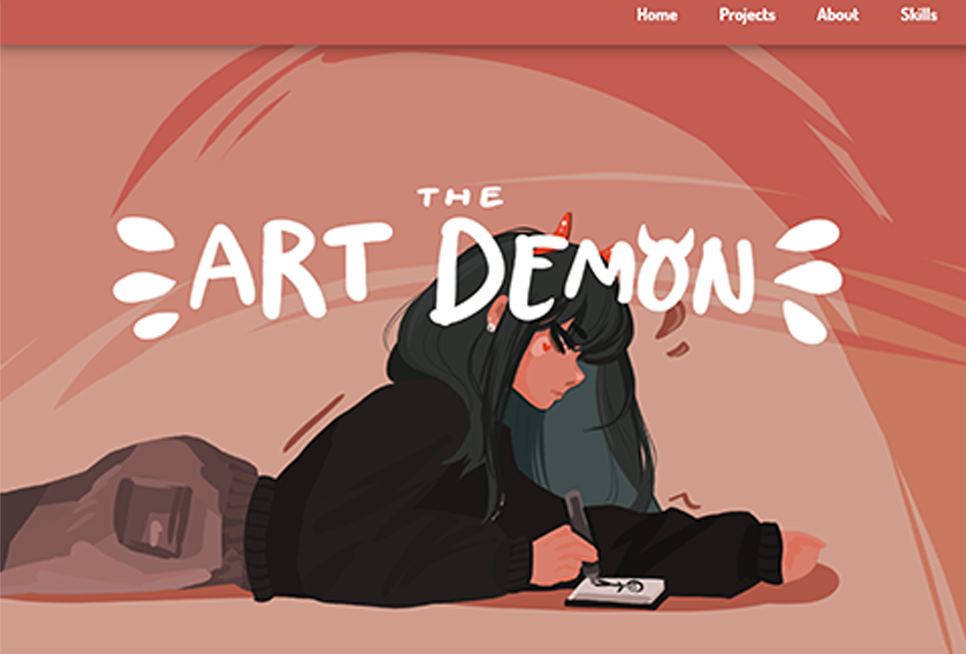
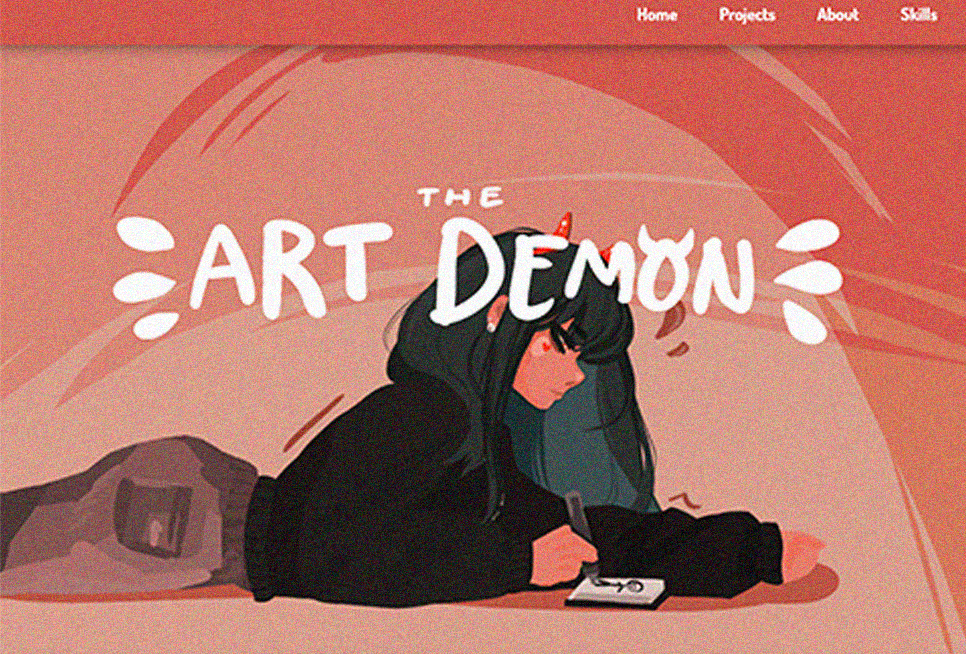
checked

diff --git a/app/page.js b/app/page.js
@@ -1,6 +1,7 @@
 'use client';
 import React from 'react';
-import Image from "next/image";
+import Image from "next/legacy/image";
+import Link from "next/link"
 
 export default function Home() {
   const getRandomHeight = (min, max) => Math.floor(Math.random() * (max - min + 1)) + min;
@@ -11,21 +12,25 @@ export default function Home() {
       title: 'SLEEPWALKER',
       subtitle: '2D Platformer made using Unity Engine & URP',
       image: '/images/sleepwalker.png',
+      link: 'https://github.com/saboiii/SLEEPWALKER',
     },
     {
       title: 'IMMUNE',
       subtitle: 'Top-down 2D Battle Strategy game made using Unity',
       image: '/images/immune.png',
-    },
-    {
-      title: 'PORTFOLIO',
-      subtitle: 'Example portfolio website created using TailwindCSS & React',
-      image: '/images/artdemon.png',
+      link: 'https://github.com/saboiii/IMMUNE-V1.1-Code',
     },
     {
       title: 'CHERISH SG Website',
       subtitle: 'Next.js, React, TailwindCSS full-stack blog web app for social campaign',
       image: '/images/cherish.png',
+      link: 'https://cherish.netlify.app',
+    },
+    {
+      title: 'PORTFOLIO',
+      subtitle: 'Example portfolio website created using TailwindCSS & React',
+      image: '/images/artdemon.png',
+      link: 'https://github.com/saboiii/Artdemon-MyTestPortfolio',
     },
   ];
 
@@ -39,45 +44,55 @@ export default function Home() {
       <div className="flex h-screen w-screen">
 
         <div className="flex flex-col justify-center w-full items-center md:items-start md:px-[15%]">
-          <p className="ml-2 font-josefinsans text-md text-rose-100/50 mb-1">SABA | AZAD | 17 | GIIS</p>
+          <p className="ml-2 font-josefinsans text-md text-rose-100 mb-1">SABA | AZAD | 17 | GIIS</p>
           <div className="line w-48 ml-2 border-t border-white my-2"></div>
           <h1 className="mb-2 z-10">PORTFOLIO</h1>
           <h2 className="ml-1">In production.</h2>
 
-          <div className="blob z-0 absolute rounded-[999px] blur-3xl md:w-[750px] w-[500px] h-[500px] md:h-[750px] bg-gradient-to-l from-blue-500/5 via-orange-200/5 to-rose-300/5" />
-          <div className="blob z-0 absolute top-0 left-0 rounded-[999px] blur-3xl w-[300px] h-[300px] md:w-[500px] md:h-[500px] bg-gradient-to-l from-orange-200/5 to-rose-400/5" />
-          <div className="blob z-0 absolute rounded-[999px] blur-3xl w-[200px] h-[200px] md:w-[500px] md:h-[500px] bg-gradient-to-l from-orange-500/10 md:from-purple-500/5 to-rose-400/5" />
+          <div className="blob z-0 absolute rounded-[999px] blur-3xl md:w-[750px] w-[500px] h-[500px] md:h-[750px] bg-gradient-to-l from-blue-500/5 via-purple-200/5 to-rose-300/5" />
+          <div className="blob z-0 absolute top-0 left-0 rounded-[999px] blur-3xl w-[300px] h-[300px] md:w-[500px] md:h-[500px] bg-gradient-to-l from-pink-200/5 to-rose-400/5" />
+          <div className="blob z-0 absolute rounded-[999px] blur-3xl w-[200px] h-[200px] md:w-[500px] md:h-[500px] bg-gradient-to-l from-pink-500/10 md:from-purple-500/5 to-rose-400/5" />
           <div className="blob z-0 absolute bottom-0 right-0 rounded-[999px] blur-3xl w-[250px] h-[250px] md:w-[500px] md:h-[500px] bg-gradient-to-l from-rose-500/5 to-blue-950/5 md:to-purple-400/5" />
         </div>
 
       </div>
 
-      <div className="w-screen grid grid-cols-1 md:grid-cols-3 gap-4 p-24">
-        {groupedProjects.map((columnProjects, columnIndex) => (
-          <div key={columnIndex} className="flex flex-col gap-4">
-            {columnProjects.map((project, index) => (
-              <div
-                key={index}
-                className="relative overflow-hidden"
-                style={{ height: `${getRandomHeight(250, 400)}px` }}
-              >
-                <div className="relative overflow-hidden w-full h-full">
-                  <Image
-                    src={project.image}
-                    alt={project.title}
-                    layout="fill"
-                    objectFit="cover"
-                  />
+      <div>
+      <div className="flex justify-center items-center mb-12">
+          <div className="w-[25%] h-px bg-rose-100 mx-4 mb-2"></div>
+          <h2 className="text-3xl">Projects</h2>
+          <div className="w-[25%] h-px bg-rose-100 mx-4 mb-2"></div>
+        </div>
+        <div className="h-full w-screen grid grid-cols-1 md:grid-cols-3 gap-4 pb-24 px-24">
+          {groupedProjects.map((columnProjects, columnIndex) => (
+            <div key={columnIndex} className="flex flex-col gap-4">
+              {columnProjects.map((project, index) => (
+                <div
+                  key={index}
+                  className="relative overflow-hidden"
+                  style={{ height: `${getRandomHeight(250, 350)}px` }}
+                >
+                  <div className="relative overflow-hidden w-full h-full opacity-70">
+                    <Image
+                      src={project.image}
+                      alt={project.title}
+                      layout='fill'
+                      objectFit='cover'
+                    />
+                  </div>
+
+                  <Link href={project.link} className="overlay absolute top-0 left-0 w-full h-full flex flex-col justify-center items-center bg-black/70 text-white text-center opacity-0 transition-opacity duration-300 hover:opacity-100">
+                    <h3 className="text-xl font-averiabold">{project.title}</h3>
+                    <p className="text-sm font-pridimed px-12">{project.subtitle}</p>
+                  </Link>
+
                 </div>
-                <div className="overlay absolute top-0 left-0 w-full h-full flex flex-col justify-center items-center bg-black/70 text-white text-center opacity-0 transition-opacity duration-300 hover:opacity-100">
-                  <h3 className="text-xl font-averiabold">{project.title}</h3>
-                  <p className="text-sm font-pridimed">{project.subtitle}</p>
-                </div>
-              </div>
-            ))}
-          </div>
-        ))}
+              ))}
+            </div>
+          ))}
+        </div>
       </div>
+
     </div>
 
 

diff --git a/components/navbar/Navbar.jsx b/components/navbar/Navbar.jsx
@@ -6,10 +6,10 @@ const Navbar = () => {
     <div className='fixed w-full h-20 z-10'>
         <div className='flex justify-end w-full h-full'>
             <ul className='flex items-center px-8'>
-                <Link href=''><li className='mx-8 font-averiabold uppercase text-sm text-rose-100/60 hover:text-yellow-50 transition ease-out duration-500'>Home</li></Link>
-                <Link href=''><li className='mx-8 font-averiabold uppercase text-sm text-rose-100/60 hover:text-yellow-50 transition ease-out duration-500'>About</li></Link>
-                <Link href=''><li className='mx-8 font-averiabold uppercase text-sm text-rose-100/60 hover:text-yellow-50 transition ease-out duration-500'>Projects</li></Link>
-                <Link href=''><li className='mx-8 font-averiabold uppercase text-sm text-rose-100/60 hover:text-yellow-50 transition ease-out duration-500'>Contact</li></Link>
+                <Link href=''><li className='mx-8 font-averiabold uppercase text-sm text-rose-100 hover:text-yellow-50 transition ease-out duration-500'>Home</li></Link>
+                <Link href=''><li className='mx-8 font-averiabold uppercase text-sm text-rose-100 hover:text-yellow-50 transition ease-out duration-500'>About</li></Link>
+                <Link href=''><li className='mx-8 font-averiabold uppercase text-sm text-rose-100 hover:text-yellow-50 transition ease-out duration-500'>Projects</li></Link>
+                <Link href=''><li className='mx-8 font-averiabold uppercase text-sm text-rose-100 hover:text-yellow-50 transition ease-out duration-500'>Contact</li></Link>
             </ul>
         </div>
     </div>
